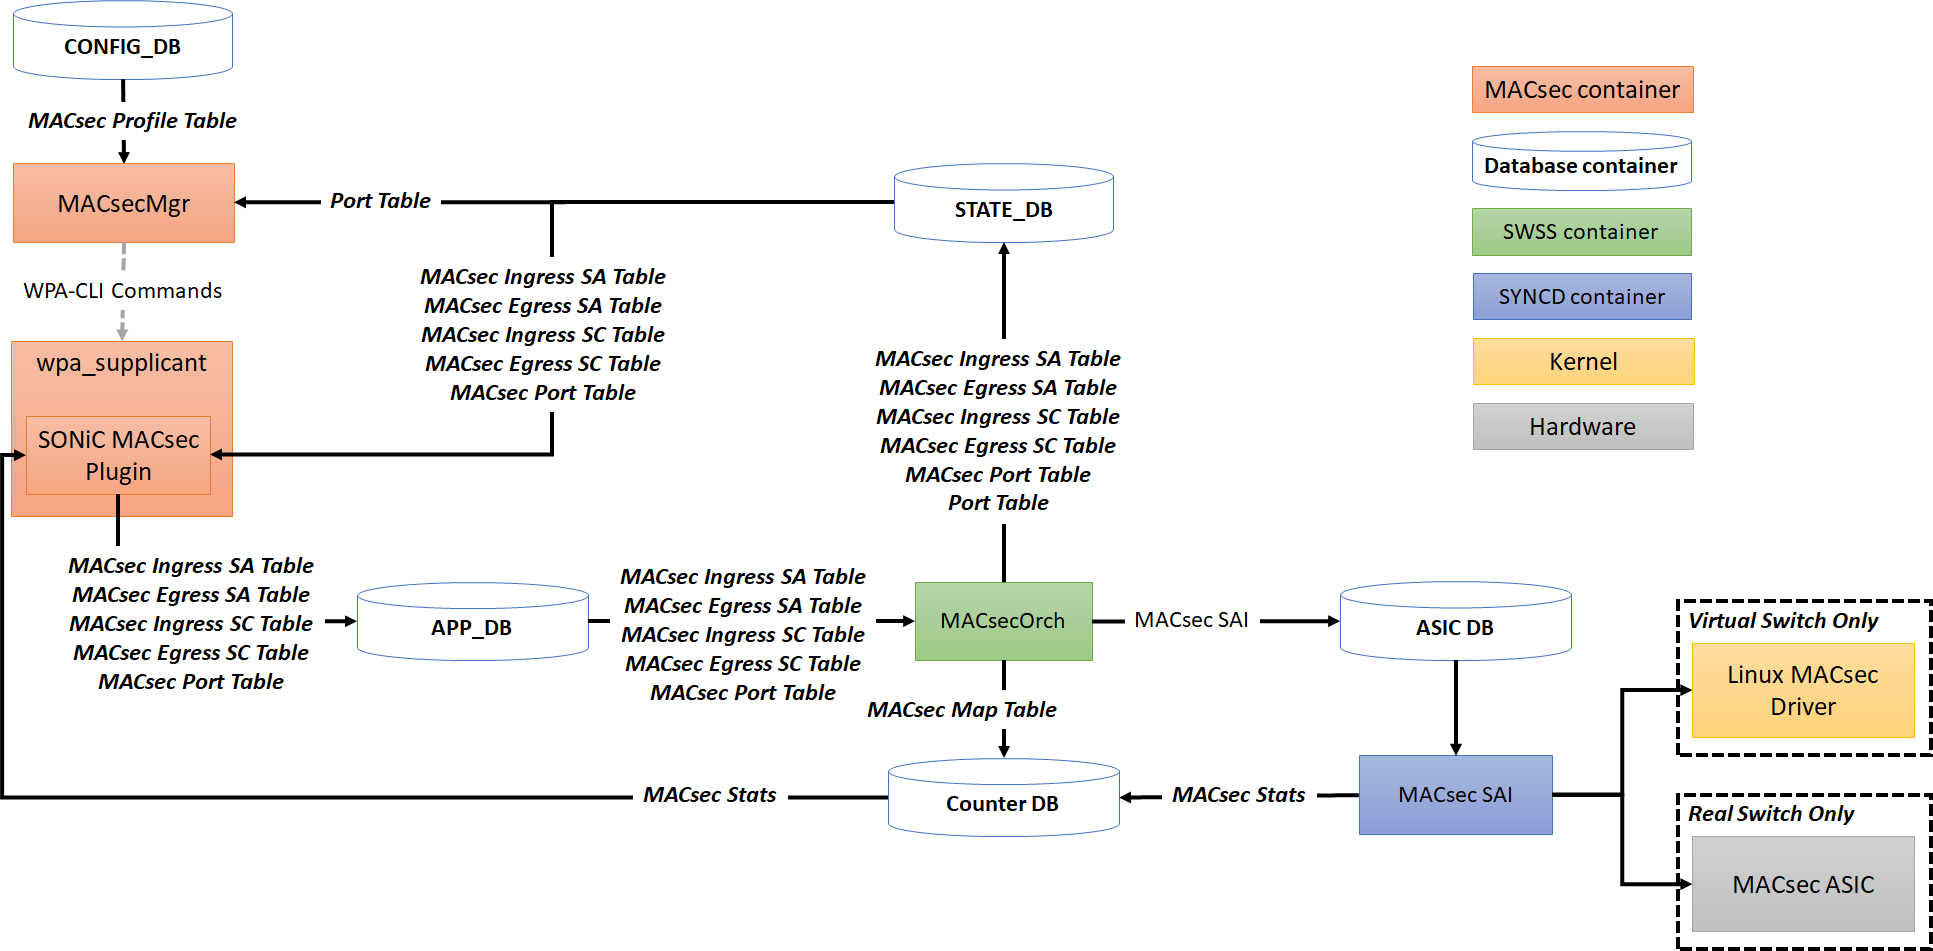
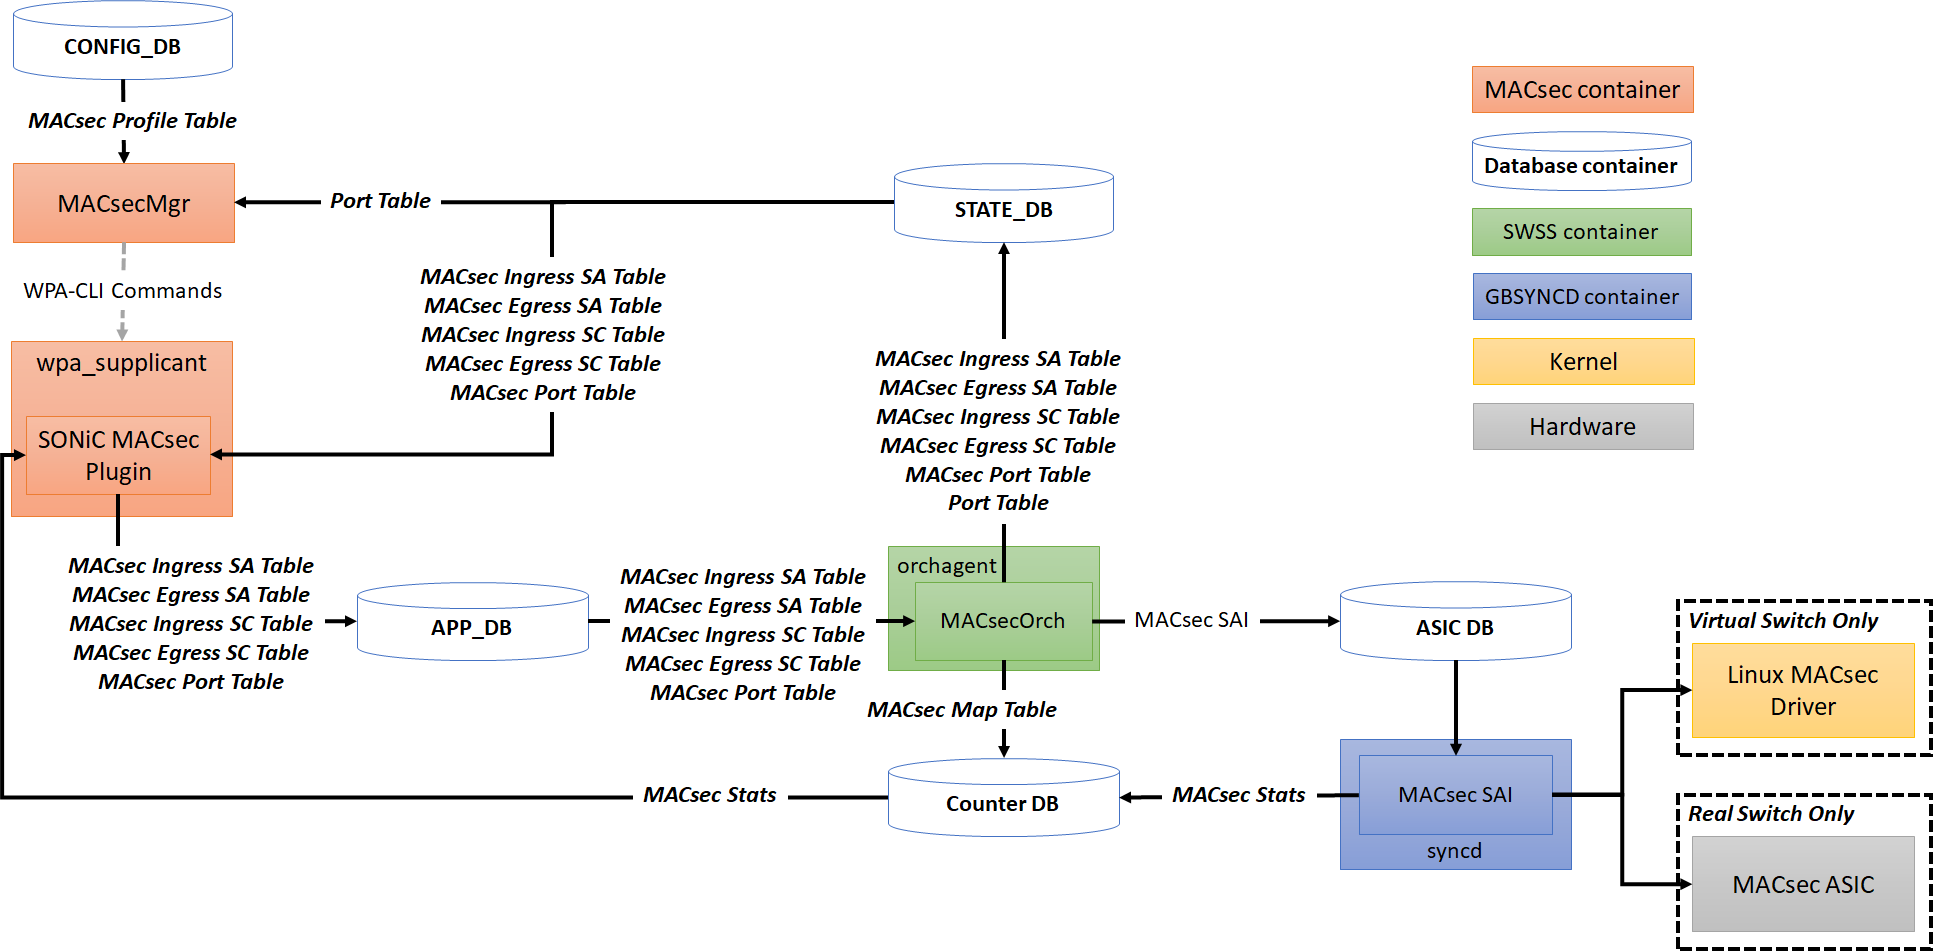
fix syncd to gbsyncd and virtual switch to SAI virtual switch

Changed region(s): [[0.4346, 0.5489, 0.5898, 0.7319], [0.6829, 0.7624, 0.8381, 0.9148], [0.776, 0.3049, 0.8691, 0.3354]]

diff --git a/doc/macsec/MACsec_hld.md b/doc/macsec/MACsec_hld.md
@@ -119,9 +119,9 @@ At a high level the following should be supported:
 
 ## 2 Architecture Design
 
-This chapter shows the MACsec interface stack of virtual switch and real switch.
+This chapter shows the MACsec interface stack of SAI virtual switch and real switch.
 
-Virtual switch use the Linux MACsec driver as the MACsec Security Entity(SecY) to support the functionality of MACsec and the SecY is imposed on the physical port.
+SAI virtual switch use the Linux MACsec driver as the MACsec Security Entity(SecY) to support the functionality of MACsec and the SecY is imposed on the physical port.
 
 Real switch use the cipher chip as SecY which will also be imposed on physical interface. But the ASIC of the switch is located between the Port and the SecY.
 
@@ -141,9 +141,9 @@ The following figure depicts the data flow and related components of MACsec. Dif
 - The green means these components are in SWSS container. This container uses the SAI APIs to control the MACsec security entities(SecY) according to databases entries and to synchronize the statistics from SecY to COUNTERS_DB.
   - **MACsecOrch** is a module of orchagent, that uses SAI APIs to manage the SecY according to messages from databases and synchronized the statistics of SecY to COUNTERS_DB.
 
-- The blue one is MACsecSAI in SYNCD container. MACsecSAI is a set of APIs that are defined to communicate with the SecY. In the virtual switch, the SecY is Linux MACsec driver and MACsecSAI will use the ip commands to manage them. But in the real switch, the SecY is the MACsec cipher chip and the implementation of MACsecSAI will be provided by the vendor of the cipher chip.
+- The blue one is MACsecSAI in GEARBOX SYNCD(GBSYNCD) container. MACsecSAI is a set of APIs that are defined to communicate with the SecY. In the SAI virtual switch, the SecY is Linux MACsec driver and MACsecSAI will use the ip commands to manage them. But in the real switch, the SecY is the MACsec cipher chip and the implementation of MACsecSAI will be provided by the vendor of the cipher chip.
 
-- The yellow one is Linux MACsec Driver (<https://github.com/torvalds/linux/blob/master/drivers/net/macsec.c>) running in the kernel space, which will only be used in virtual switch and be managed by ip commands.
+- The yellow one is Linux MACsec Driver (<https://github.com/torvalds/linux/blob/master/drivers/net/macsec.c>) running in the kernel space, which will only be used in SAI virtual switch and be managed by ip commands.
 
 - The gray one is MACsec cipher chip which will only be used in real switch and be provided by the vendor.
 
